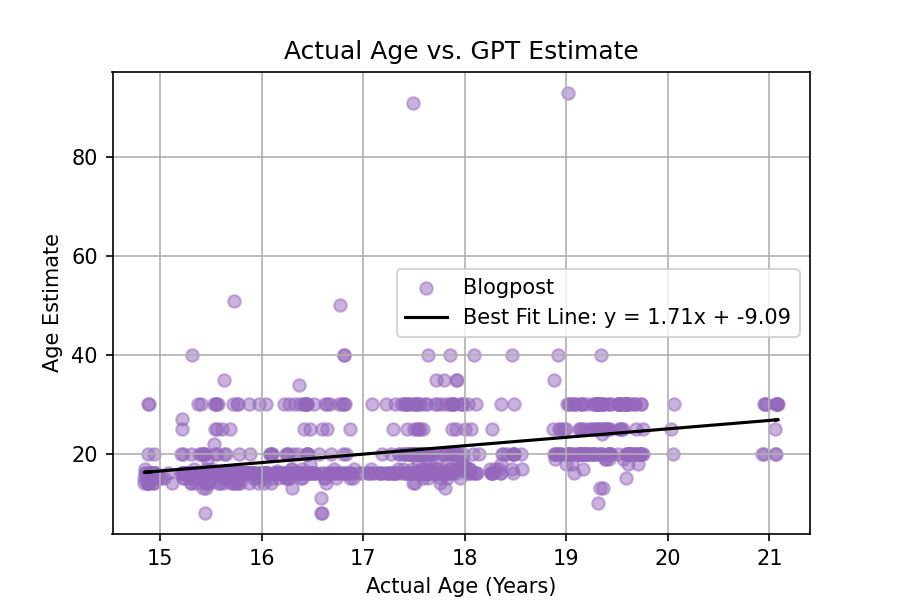
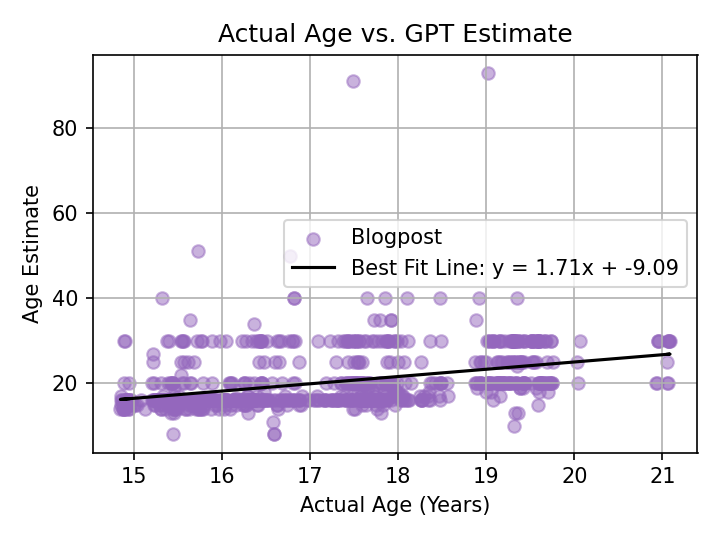
Graph resizing

Changed region(s): [[0.0306, 0.0296, 0.9778, 1.0]]

diff --git a/BlogAnalysis/plot.py b/BlogAnalysis/plot.py
@@ -33,6 +33,7 @@ def create_scatter_plot(dataset, y_variable: str, title: str, filename=None, dpi
 
     plt.legend()
     plt.grid(True)
+    plt.tight_layout()
 
     if filename is not None:
         plt.savefig(filename, dpi=dpi)
@@ -66,5 +67,5 @@ if __name__ == "__main__":
                                       title="Actual Age vs. GPT Estimate (Mock Data)",
                                       filename="mock_data_graphed.png",
                                       dpi=150,
-                                      figsize=(6,4))
+                                      figsize=(4.8, 3.6))
     plt.show()

diff --git a/BlogAnalysis/main.py b/BlogAnalysis/main.py
@@ -19,4 +19,4 @@ if __name__ == '__main__':
                         title="Actual Age vs. GPT Estimate",
                         filename="output/real_data_graphed.png",
                         dpi=150,
-                        figsize=(6, 4))
+                        figsize=(4.8, 3.6))
